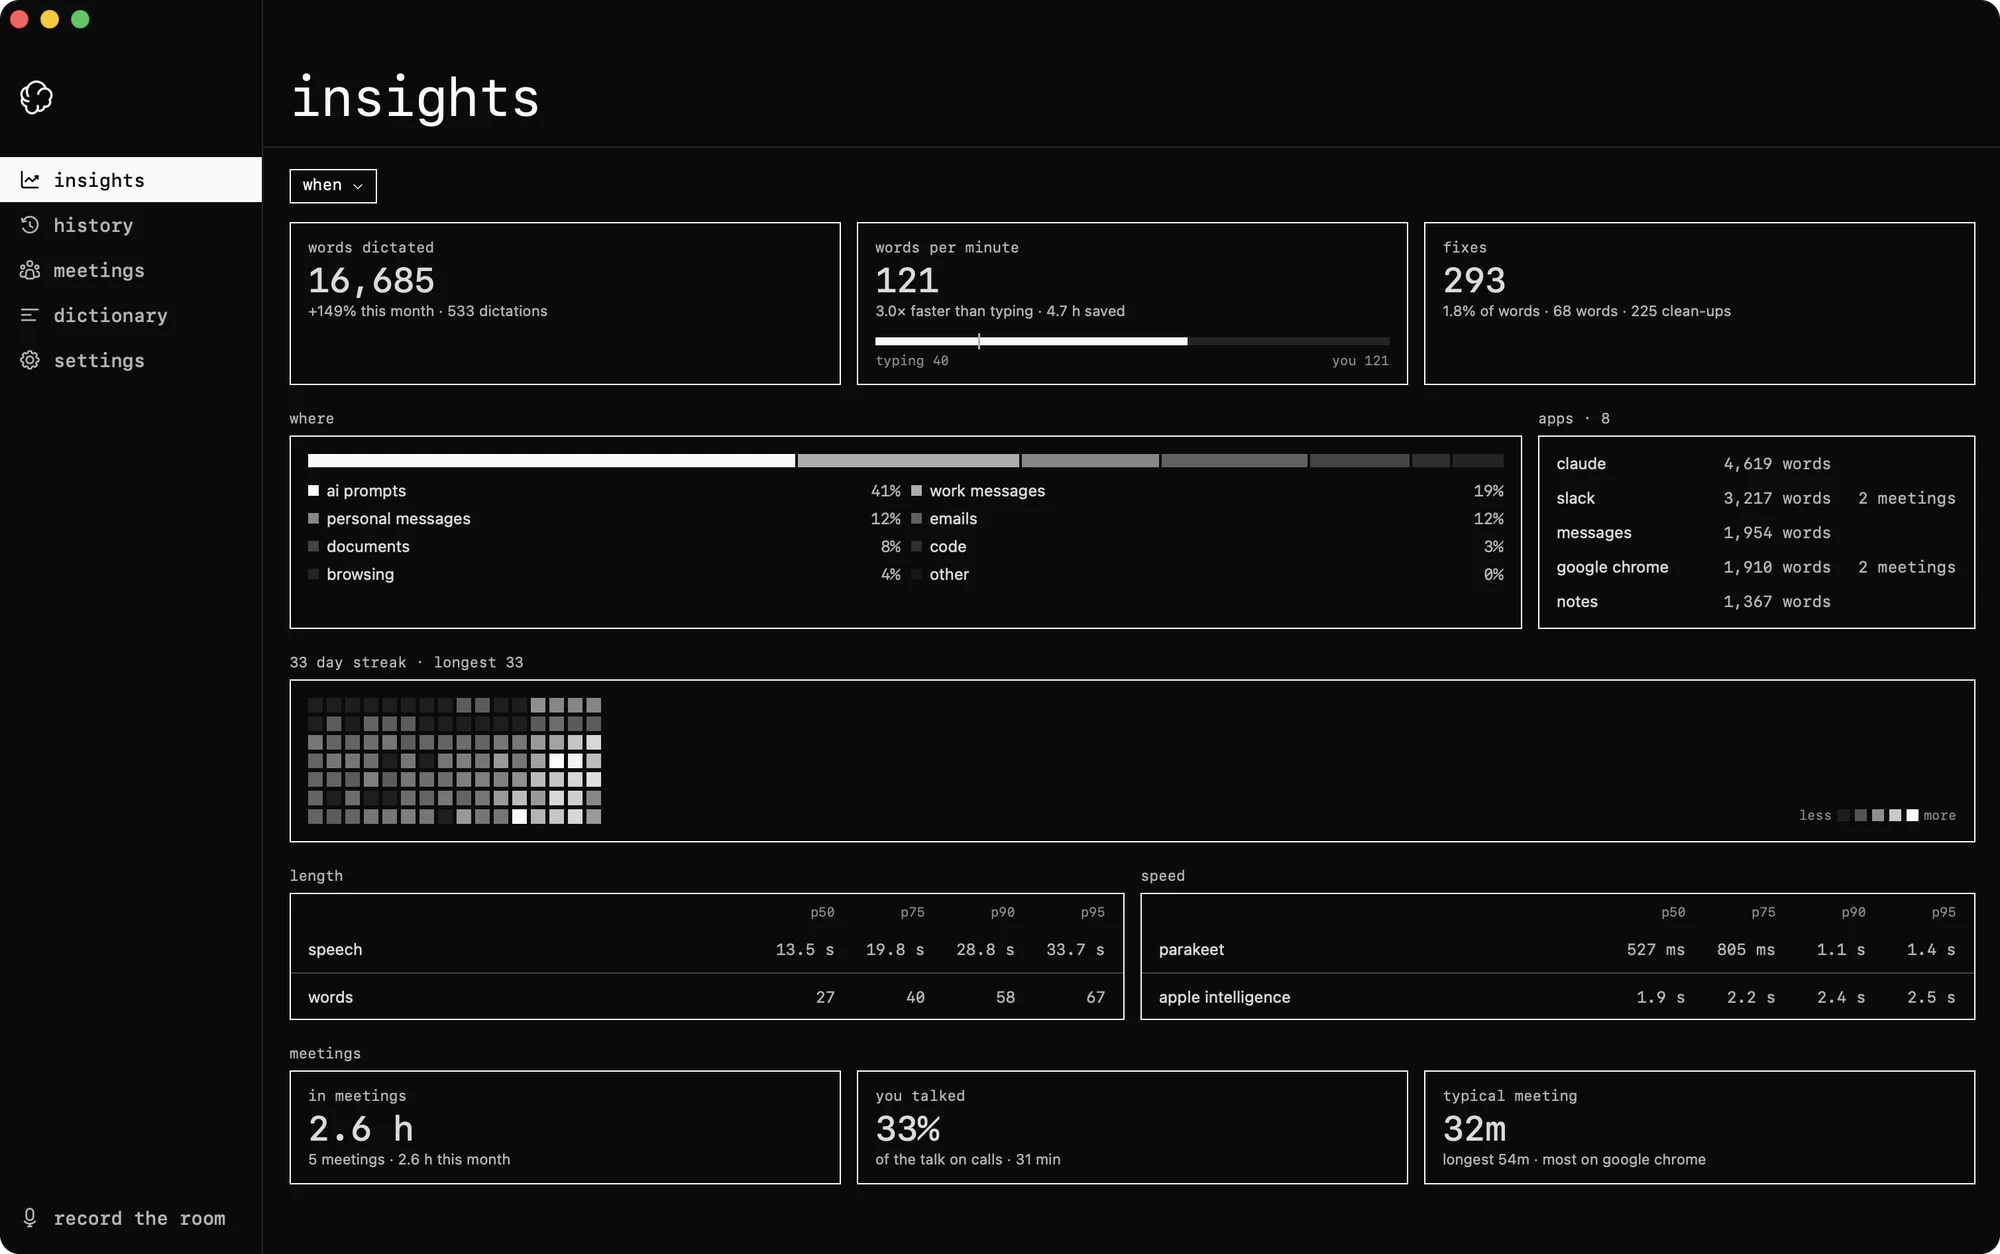
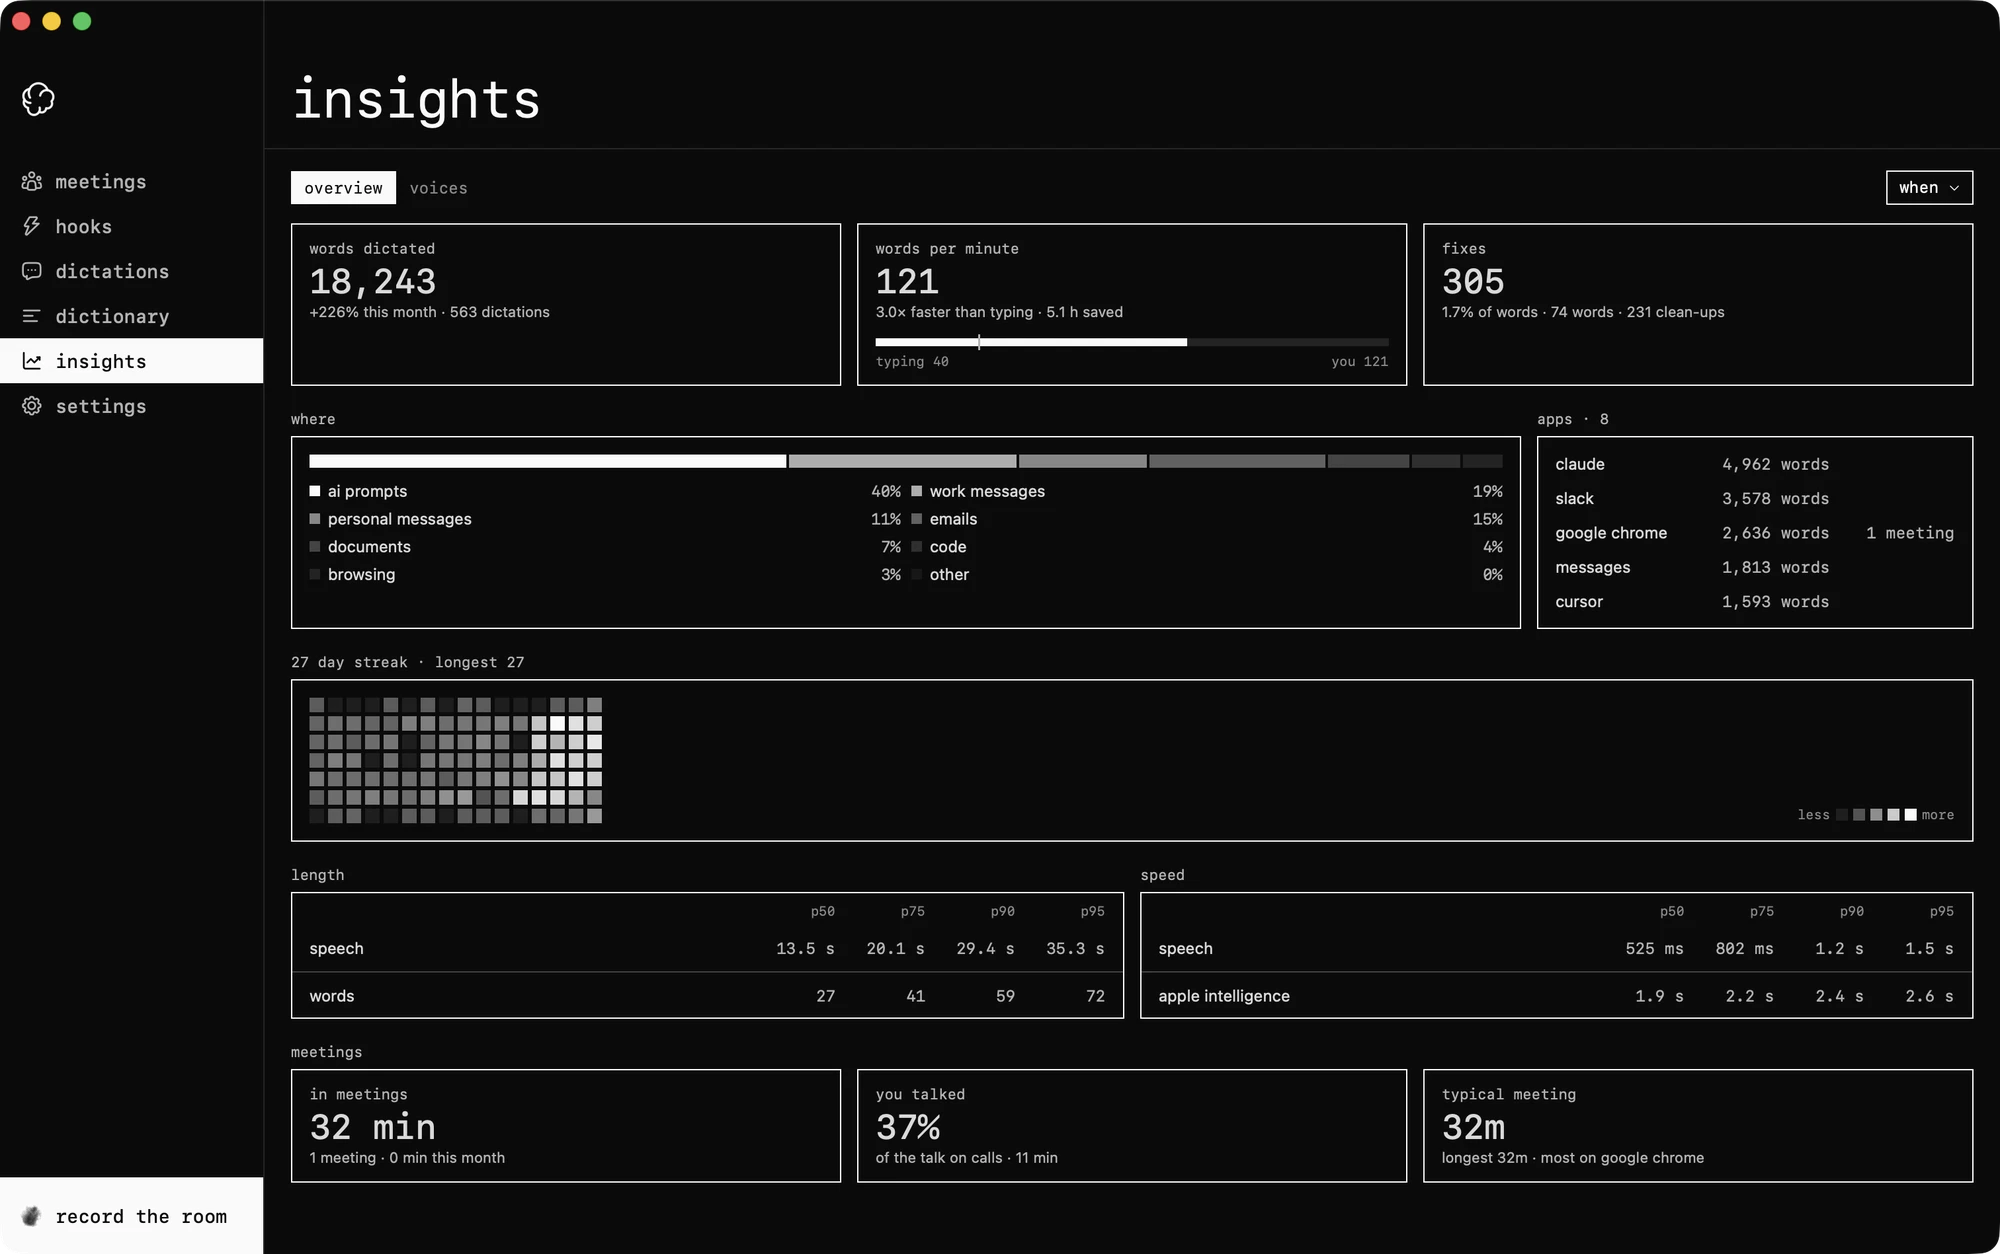
Retake the website's app shots with make site-shots, and put hooks under people
The meeting page's rail lists hooks right under people, above where and
processing. make site-shots builds the dev app and retakes meeting.webp,
hooks.webp and insights.webp; insights had no script before. The dev app
takes -openPage <tab> and -openMeeting <id> at launch, so the capture opens
the page itself instead of clicking through the sidebar. The script now
reads the dev app's hooks through defaults export: defaults read shortened
them to {length=…}, so they could not be put back. The fn keycap on the
landing page centres on the cap height instead of sitting 1.5 px low.

diff --git a/TypeMeIt/TypeMeItApp.swift b/TypeMeIt/TypeMeItApp.swift
@@ -288,9 +288,26 @@ final class AppDelegate: NSObject, NSApplicationDelegate {
         if Settings.shared.onboardingComplete, OnboardingView.permissionsGranted {
             startRunning()
             if ModelStore.needsUpgrade(onboardingComplete: true, currentInstalled: modelInstalled) { showUpgrade() }
+            openLaunchPage()
         } else {
             showOnboarding()
         }
+    }
+
+    /// `-openPage insights` or `-openMeeting <id>` on the command line opens
+    /// that page or meeting at launch, for screenshots (Scripts/store/app).
+    /// Read from the arguments only, never from saved preferences.
+    private func openLaunchPage() {
+        let arguments = UserDefaults.standard.volatileDomain(forName: UserDefaults.argumentDomain)
+        if let id = (arguments["openMeeting"] as? String).flatMap(UUID.init(uuidString:)) {
+            AppState.shared.settingsTab = .meetings
+            AppState.shared.revealMeeting = id
+        } else if let page = (arguments["openPage"] as? String).flatMap(SettingsTab.init(rawValue:)) {
+            AppState.shared.settingsTab = page
+        } else {
+            return
+        }
+        Task { @MainActor in NotificationCenter.default.post(name: MenuBarLabel.openSettings, object: nil) }
     }
 
     /// The app is in the Dock and the app switcher only while one of its

diff --git a/web/index.html b/web/index.html
@@ -179,7 +179,9 @@ a { color: inherit; }
   height: 22px; min-width: 22px; padding: 0 8px; margin-inline: 2px;
   border: 1px solid var(--tmi-ink-a20); border-radius: var(--radius-sm);
   background: var(--tmi-paper-raised); color: var(--tmi-ink);
-  font: 400 12px/1 var(--font-ui); letter-spacing: 0; vertical-align: middle;
+  font: 400 12px/1 var(--font-ui); letter-spacing: 0;
+  /* middle centres on the x-height; lift it to centre on the cap height */
+  vertical-align: middle; position: relative; top: -0.12em;
   transition: background-color var(--duration-1) var(--ease-out), color var(--duration-1) var(--ease-out), border-color var(--duration-1) var(--ease-out), transform var(--duration-1) var(--ease-out);
 }
 .kbd svg { width: 12px; height: 12px; flex: none; }

diff --git a/TypeMeIt/SettingsUI/MeetingPage.swift b/TypeMeIt/SettingsUI/MeetingPage.swift
@@ -529,6 +529,7 @@ struct MeetingPage: View {
                 SquareSubhead(text: "removed", first: meeting.speakers.isEmpty)
                 setAside(removed, struck: true, choice: .restore, help: "restore")
             }
+            if showsHooks { railHooks }
             SquareSubhead(text: "where", first: meeting.speakers.isEmpty && meeting.removedSpeakers == nil)
             Text(whereLine)
                 .font(Square.mono(12))
@@ -553,7 +554,6 @@ struct MeetingPage: View {
             }
             SquareSubhead(text: "processing")
             RailFacts(facts: processing)
-            if showsHooks { railHooks }
         }
         .padding(.vertical, 28)
         .padding(.horizontal, 22)

diff --git a/Scripts/store/app/meeting.py b/Scripts/store/app/meeting.py
@@ -1,7 +1,8 @@
 #!/usr/bin/env python3
-"""Capture the website's meeting page shot, web/shots/meeting.webp, from a
-made-up meeting in a throwaway store with no hooks run, and crop the same
-page with two hook runs into web/shots/hooks.webp.
+"""Capture the website's shots of the dev app: the meeting page,
+web/shots/meeting.webp, from a made-up meeting in a throwaway store with no
+hooks run; the same page with two hook runs, cropped into web/shots/hooks.webp;
+and the insights page over that store, web/shots/insights.webp.
 
     python3 Scripts/store/app/meeting.py
 
@@ -10,13 +11,14 @@ instance running. Writes the meeting under Scripts/store/app/store/Meetings
 with a silent recording so the player shows, a question asked of Claude by
 name with its answer, and two hook runs; puts four hooks in the dev app's
 defaults for the capture and restores what was there after. Launches the dev
-app on that store with TYPEMEIT_SUPPORT_DIR, opens the meeting from the
-meetings tab and saves the window without its shadow at the size the page
-gives it; once with the hook runs for the crop, then again without them. Keep the mouse and keyboard off while
-it runs. Deterministic: the same meeting every run.
+app on that store with TYPEMEIT_SUPPORT_DIR and -openMeeting, and saves the
+window without its shadow at the size the page gives it; once with the hook
+runs for the crop, then again without them; then with -openPage insights.
+Keep the mouse and keyboard off while it runs. Deterministic: the same meeting every run.
 """
 import json
 import os
+import plistlib
 import random
 import subprocess
 import sys
@@ -24,23 +26,24 @@ import time
 import uuid
 import wave
 
-from PIL import Image
+from PIL import Image, ImageDraw
 
-from capture import APP, DEFAULTS, HERE, ROOT, WINDOW_ID, clone_model, osascript, sidebar_buttons
+from capture import APP, DEFAULTS, HERE, ROOT, WINDOW_ID, clone_model, osascript
 
 STORE = os.path.join(HERE, "store")
 OUT = os.path.join(ROOT, "web", "shots", "meeting.webp")
 HOOKS_OUT = os.path.join(ROOT, "web", "shots", "hooks.webp")
+INSIGHTS_OUT = os.path.join(ROOT, "web", "shots", "insights.webp")
 SIZE = (2000, 1254)  # web/index.html's <img width> and height
-SIDEBAR = ["meetings", "hooks", "dictations", "dictionary", "insights", "settings"]
 # Hooks live in the dev app's preferences, DEFAULTS.
 HOOKS_KEY = "meetingHooks"
-# Where the newest meeting's row sits in the meetings tab, in points from the
-# window's corner, with the window at {0, 33}.
-FIRST_ROW = (600, 240)
 # The hook run card and the hooks list in the saved meeting shot, in its
 # pixels: left, top, right, bottom.
-HOOKS_CROP = (300, 330, 2000, 1030)
+HOOKS_CROP = (300, 296, 2000, 996)
+# The summary's last line ends level with the top of the hooks run button,
+# so the crop's strip over the article, in its own pixels, is painted over
+# with the page's background.
+SUMMARY_TAIL = (0, 0, 1240, 10)
 
 ID = "5EED0000-0000-4000-8000-000000000001"
 STARTED = "2026-10-09T09:02:00Z"  # 10:02 in London
@@ -183,16 +186,18 @@ def seed(hook_runs):
 
 
 def stored_hooks():
-    """The dev app's hooks as `defaults` prints them, a hex data blob, or None."""
-    read = subprocess.run(["defaults", "read", DEFAULTS, HOOKS_KEY], capture_output=True, text=True)
-    return read.stdout.strip() if read.returncode == 0 else None
+    """The dev app's hooks as hex, or None. Read through `defaults export`:
+    `defaults read` shortens long data to `{length=…,bytes=0x…}`."""
+    exported = subprocess.run(["defaults", "export", DEFAULTS, "-"], capture_output=True, check=True).stdout
+    hooks = plistlib.loads(exported).get(HOOKS_KEY)
+    return hooks.hex() if hooks is not None else None
 
 
 def set_hooks(blob):
     if blob is None:
         subprocess.run(["defaults", "delete", DEFAULTS, HOOKS_KEY], capture_output=True)
     else:
-        subprocess.run(["defaults", "write", DEFAULTS, HOOKS_KEY, "-data", blob.strip("<>").replace(" ", "")], check=True)
+        subprocess.run(["defaults", "write", DEFAULTS, HOOKS_KEY, "-data", blob], check=True)
 
 
 def seeded_hooks_blob():
@@ -209,22 +214,18 @@ def save_window(wid, path):
     print(path)
 
 
-def capture(path):
-    """Opens the meeting in the dev app on STORE and saves its window to path."""
+def capture(path, opening):
+    """Launches the dev app on STORE with `opening`, its launch flags for the
+    page to show, and saves its window to path."""
     env = dict(os.environ, TYPEMEIT_SUPPORT_DIR=STORE)
-    app = subprocess.Popen([APP], env=env, stdout=subprocess.DEVNULL, stderr=subprocess.DEVNULL)
+    app = subprocess.Popen([APP, *opening], env=env, stdout=subprocess.DEVNULL, stderr=subprocess.DEVNULL)
     try:
         time.sleep(6)
-        subprocess.run(["open", APP.split("/Contents/MacOS/")[0]], check=True)
-        time.sleep(2)
         osascript(app.pid, 'set position of window "settings" to {0, 33}')
         osascript(app.pid, 'set size of window "settings" to {1512, 949}')
         wid = subprocess.run(["swift", "-e", WINDOW_ID, str(app.pid)], capture_output=True, text=True, check=True).stdout.split()[0]
-        pages = sidebar_buttons(app.pid)
-        osascript(app.pid, f'click button {pages[SIDEBAR.index("meetings")]} of group 1 of window "settings"')
-        time.sleep(1.5)
-        osascript(app.pid, "set frontmost to true")
-        subprocess.run(["cliclick", f"c:{FIRST_ROW[0]},{FIRST_ROW[1] + 33}", "m:1500,900"], check=True)
+        # The pointer off the rows, so none shows its hover.
+        subprocess.run(["cliclick", "m:1500,900"], check=True)
         time.sleep(2)
         osascript(app.pid, "set frontmost to true")
         time.sleep(0.5)
@@ -241,11 +242,14 @@ def main():
     set_hooks(seeded_hooks_blob())
     try:
         seed(hook_runs=True)
-        capture(HOOKS_OUT)
-        Image.open(HOOKS_OUT).crop(HOOKS_CROP).save(HOOKS_OUT, "WEBP", quality=90)
+        capture(HOOKS_OUT, ["-openMeeting", ID])
+        hooks = Image.open(HOOKS_OUT).crop(HOOKS_CROP)
+        ImageDraw.Draw(hooks).rectangle(SUMMARY_TAIL, fill=hooks.getpixel((SUMMARY_TAIL[2], SUMMARY_TAIL[3] + 1)))
+        hooks.save(HOOKS_OUT, "WEBP", quality=90)
         print(HOOKS_OUT)
         seed(hook_runs=False)
-        capture(OUT)
+        capture(OUT, ["-openMeeting", ID])
+        capture(INSIGHTS_OUT, ["-openPage", "insights"])
     finally:
         set_hooks(hooks_before)
 
